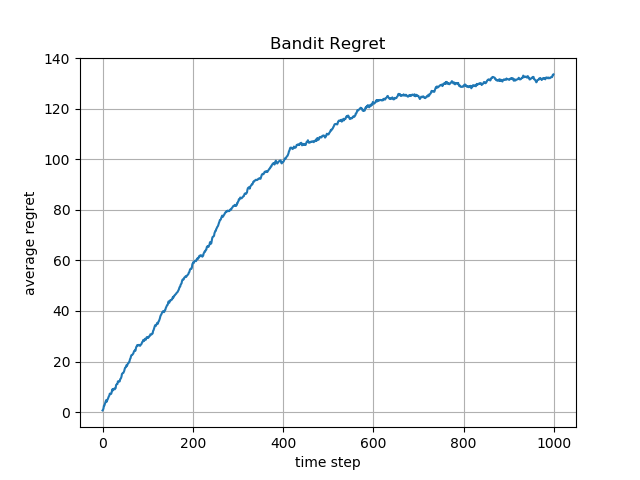
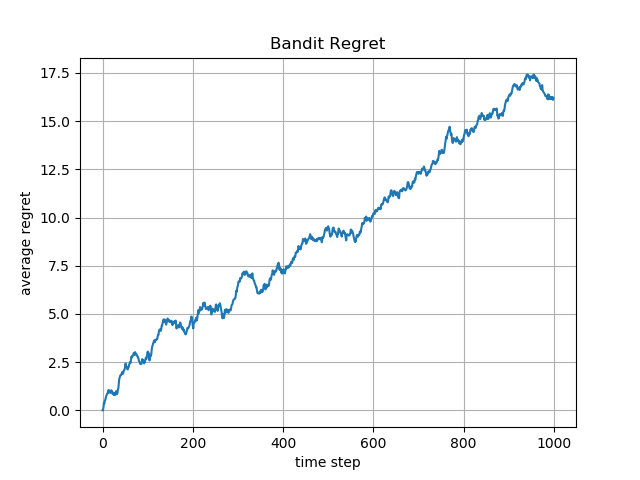
Determined that the proposed algorithm does not get logarithmic regret. Looking into eimplementing LinUCB instead, which has sqrt(T) regret. However, implemented updated UCB function (have not yet proved any bounds on it and seems to grow linearly after initially growing approximately logarithmicall
Would recommend ignoring UCB_arm function and work on LinUCB_arm function after reading LinUCB paper.

diff --git a/multi-armed_bandit/Bandit.py b/multi-armed_bandit/Bandit.py
@@ -21,6 +21,7 @@ class Bandit():
 
     def reset(self):
         self.weighted_sample_count = np.zeros(self.m)
+        self.sum_of_squared_sample_weights = np.zeros(self.m)
         self.cumulative_empirical_reward = np.zeros(self.m)
         self.time_step = 1 
 
@@ -30,8 +31,8 @@ class Bandit():
     def get_best_reward(self, Z):
         best_row_ind = np.argmax(np.dot(Z, self.u))
         z_best = Z[best_row_ind]
-        X_star = np.dot(z_best, self.u)
-        return X_star
+        mu_star = np.dot(z_best, self.u)
+        return mu_star
 
     def update(self, Z_t):
 
@@ -40,10 +41,11 @@ class Bandit():
         X_t = self.sample_reward(z_chosen) # reward
 
         self.weighted_sample_count += z_chosen
+        self.sum_of_squared_sample_weights += np.power(z_chosen , 2)
         self.cumulative_empirical_reward += z_chosen * X_t
 
-        X_star = self.get_best_reward(Z_t)
-        self.regret += X_star - X_t
+        mu_star = self.get_best_reward(Z_t)
+        self.regret += mu_star - X_t
         self.regret_vec[self.time_step - 1] = self.regret
 
         self.time_step += 1
@@ -51,21 +53,35 @@ class Bandit():
     def sample_reward(self, z):
         return np.random.normal(np.dot(z, self.u), self.var_proxy)
 
-    def UCB_arm(self, Z_t):
-        if self.time_step == 1:
-            # pick an arm at random
-            return np.random.randint(0, Z_t.shape[0])
+    def LinUCB_arm(self, Z_t):
+        # FILL IN HERE
+        return 0
 
-        empirical_means = np.divide(self.cumulative_empirical_reward, self.weighted_sample_count)
+    def UCB_arm(self, Z_t):
+        tmp_arr = np.copy(self.weighted_sample_count)
+        indices_no_samples = np.where(tmp_arr == 0)
+        tmp_arr[indices_no_samples] = 1
+
+        empirical_means = np.divide(self.cumulative_empirical_reward, tmp_arr)
+        empirical_means[indices_no_samples] = np.inf
 
         # Select action according to UCB-LI Criteria
         content_value_estimates = np.dot(Z_t, empirical_means)
-        confidence_interval = np.sqrt(
-            ( 2.0 * self.exploratory_parameter * self.var_proxy * np.log(self.time_step)) / 
-                    np.dot(Z_t, self.weighted_sample_count) )
+        # confidence_interval = np.sqrt(
+        #     ( 2.0 * self.exploratory_parameter * self.var_proxy * np.log(self.time_step)) / 
+        #             np.dot(Z_t, self.weighted_sample_count) ) 
 
-        i = np.argmax( content_value_estimates + confidence_interval )
-        return i
+        tmp_weighted_count = np.maximum(1e-8 , np.power(self.weighted_sample_count , 2) )
+        term_under_sq_root = np.sum( 
+            np.power(Z_t , 2) \
+                * self.sum_of_squared_sample_weights \
+                / tmp_weighted_count , 1) \
+            / np.dot(Z_t, tmp_weighted_count )
+        confidence_interval = np.sqrt(
+            2 * self.exploratory_parameter * self.var_proxy * np.log(self.time_step) ) \
+                * np.sqrt(term_under_sq_root )
+
+        return np.argmax( content_value_estimates + confidence_interval )
 
 
         
@@ -73,7 +89,7 @@ if __name__ == "__main__":
 
     # System parameters
     time_horizon = 1000
-    num_simulations = 10
+    num_simulations = 100
 
     num_content = 5
     num_topics = 2
@@ -83,7 +99,7 @@ if __name__ == "__main__":
 
     # Bandit
     true_prefs = np.array([.5,.2])
-    b = Bandit(num_topics, true_prefs, time_horizon)
+    b = Bandit(num_topics, true_prefs, time_horizon, var_proxy=1)
 
     for simulation_index in range(0,num_simulations): 
         for t in range(0, time_horizon):
@@ -96,8 +112,7 @@ if __name__ == "__main__":
     # Plot regret
     fig, ax = plt.subplots()
     t_vec = np.arange(0, time_horizon)
-    ax.plot(t_vec, sum_regret/num_simulations)
-    print(sum_regret)
+    ax.plot(t_vec, sum_regret/num_simulations) # should scale \sqrt{T} - TODO: check growth rate
     
     ax.set(xlabel='time step', ylabel='average regret',
         title='Bandit Regret')
